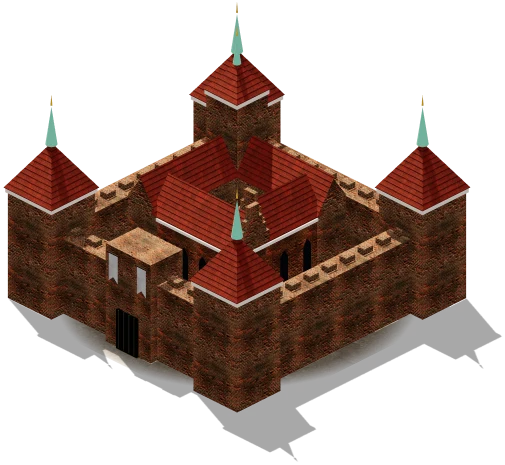
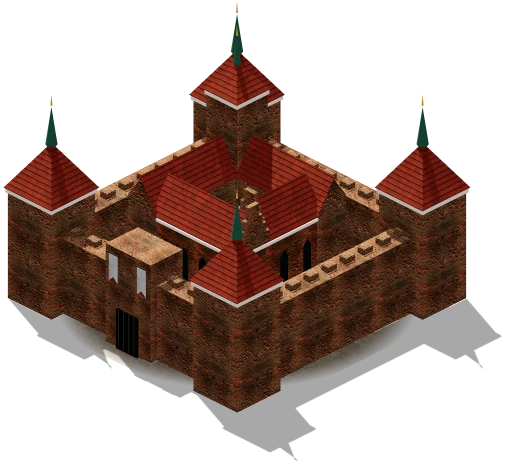
Cuprul polonez mai închis; planul nopții la zi
Acoperișurile de cupru ale polonezilor arată acum a cupru vechi, cu patină
verde (erau aproape turcoaz). Testele mari trec: 16 misiuni, 0 blocați,
meniuri, mouse, telefon, salvarea cu corăbii, animale și ogoare.

diff --git a/tools/baker/bkit.js b/tools/baker/bkit.js
@@ -311,7 +311,7 @@ export function kit(civ, tier = 1) {
     case 'pol': Object.assign(K, {
       wall: TM('castle_brick_07', '#ffe0d0', 0.9, 1.2), brick: TM('castle_brick_07', '#ffffff', 0.9, 1.2), base: TM('castle_wall_slates', '#e0dcd4', 0.95, 1.2), stone: TM('castle_brick_07', '#f0d0c0', 0.9, 1.2),
       roof: TM('roof_tiles', '#b0584a', 0.85, 1.2), timber: PM('#3a2a20', 0.85), trim: '#f2ece0', shut: '#f2ece0', winStyle: 'lancet', winCol: '#1a2026', stepGable: true,
-      pitch: 1.85, eave: 0.05, roofKind: 'gable', towerRound: false, towerTop: 'pyramid', towerPitch: 2.8, fin: 'spike', accent: '#c02828', copper: PM('#5fa088', 0.55, 0.35) }); break;
+      pitch: 1.85, eave: 0.05, roofKind: 'gable', towerRound: false, towerTop: 'pyramid', towerPitch: 2.8, fin: 'spike', accent: '#c02828', copper: PM('#467a66', 0.6, 0.3) }); break;
     case 'oto': Object.assign(K, {
       wall: TM('plastered_wall', '#fff6e8', 0.95, 0.8), stone: TMb('large_sandstone_blocks', '#ffe8c4', 1.9, 0.95, 1.2), base: TMb('large_sandstone_blocks', '#f4dcb4', 1.6, 0.95, 1.2),
       roof: TMb('roof_09', '#ff9a70', 1.05, 0.85, 1.1), timber: PM('#5a3a24', 0.85), trim: '#d9b44a', shut: '#2f6a4a', winStyle: 'arch', winCol: '#24343c',

diff --git a/docs/NOAPTEA-2.md b/docs/NOAPTEA-2.md
@@ -53,3 +53,16 @@ Ce a contat:
 - Animalele sunt resurse (`S.ents`, `k: 'r'`) cu `hp`; vânătoarea = țăranul le lovește întâi, apoi le jupoaie. Cerbul fuge când e lovit; mistrețul răspunde; lupul atacă singur oamenii din apropiere.
 - Corăbiile: grilă de trecere separată pentru apă; `findPath(..., o, naval)`; portul se pune pe apă lângă mal.
 - Imaginile noi se randează cu `tools/bake2.js` (animalele în `n/`, corăbiile în `u/<tip>_<civ>`, portul în `b/port_<civ>`).
+
+## A treia rundă (cerută de Andrei: clădirile pe epoci, alte lucruri ca în AoE2, verificare pe detalii)
+
+- [x] Clădirile pe epoci. Treapta rustică `_r` (Epoca Întunecată: lemn, lut, stuf, cetatea cu gard de pari), cea de acum (Feudală și a Cetăților) și treapta impunătoare `_g` (Imperială și Renașterea: piatră, brâie, stindarde, cupru la polonezi, țiglă smălțuită la unguri). `render.js` alege după epoca proprietarului.
+- [x] Ogoarele se termină: 300 de hrană, +100 pe unealtă. Se reînnoiesc pe 60 de lemne, singure sau plătite dinainte la moară.
+- [x] Anunțul mare la trecerea într-o epocă nouă, fumul din hornuri, poverile țăranilor, oaia culcată, butonul 💬, portul în arborele tehnologiilor.
+- [x] Muzica: o temă pe stil, care revine; instrumentele cresc cu epocile.
+- [x] Verificări:
+  - salvarea cu toate noutățile;
+  - diacriticele în texte;
+  - poveștile campaniilor, verificate istoric;
+  - trecerea vizuală prin joc.
+- [x] Reparat un bug care ajunsese publicat: clădirile terminate se desenau cu schelă (un `else` lipit de alt `if`). Lecția: testele automate nu văd grafica, deci trecerea vizuală e obligatorie după orice schimbare în `drawBld`.
